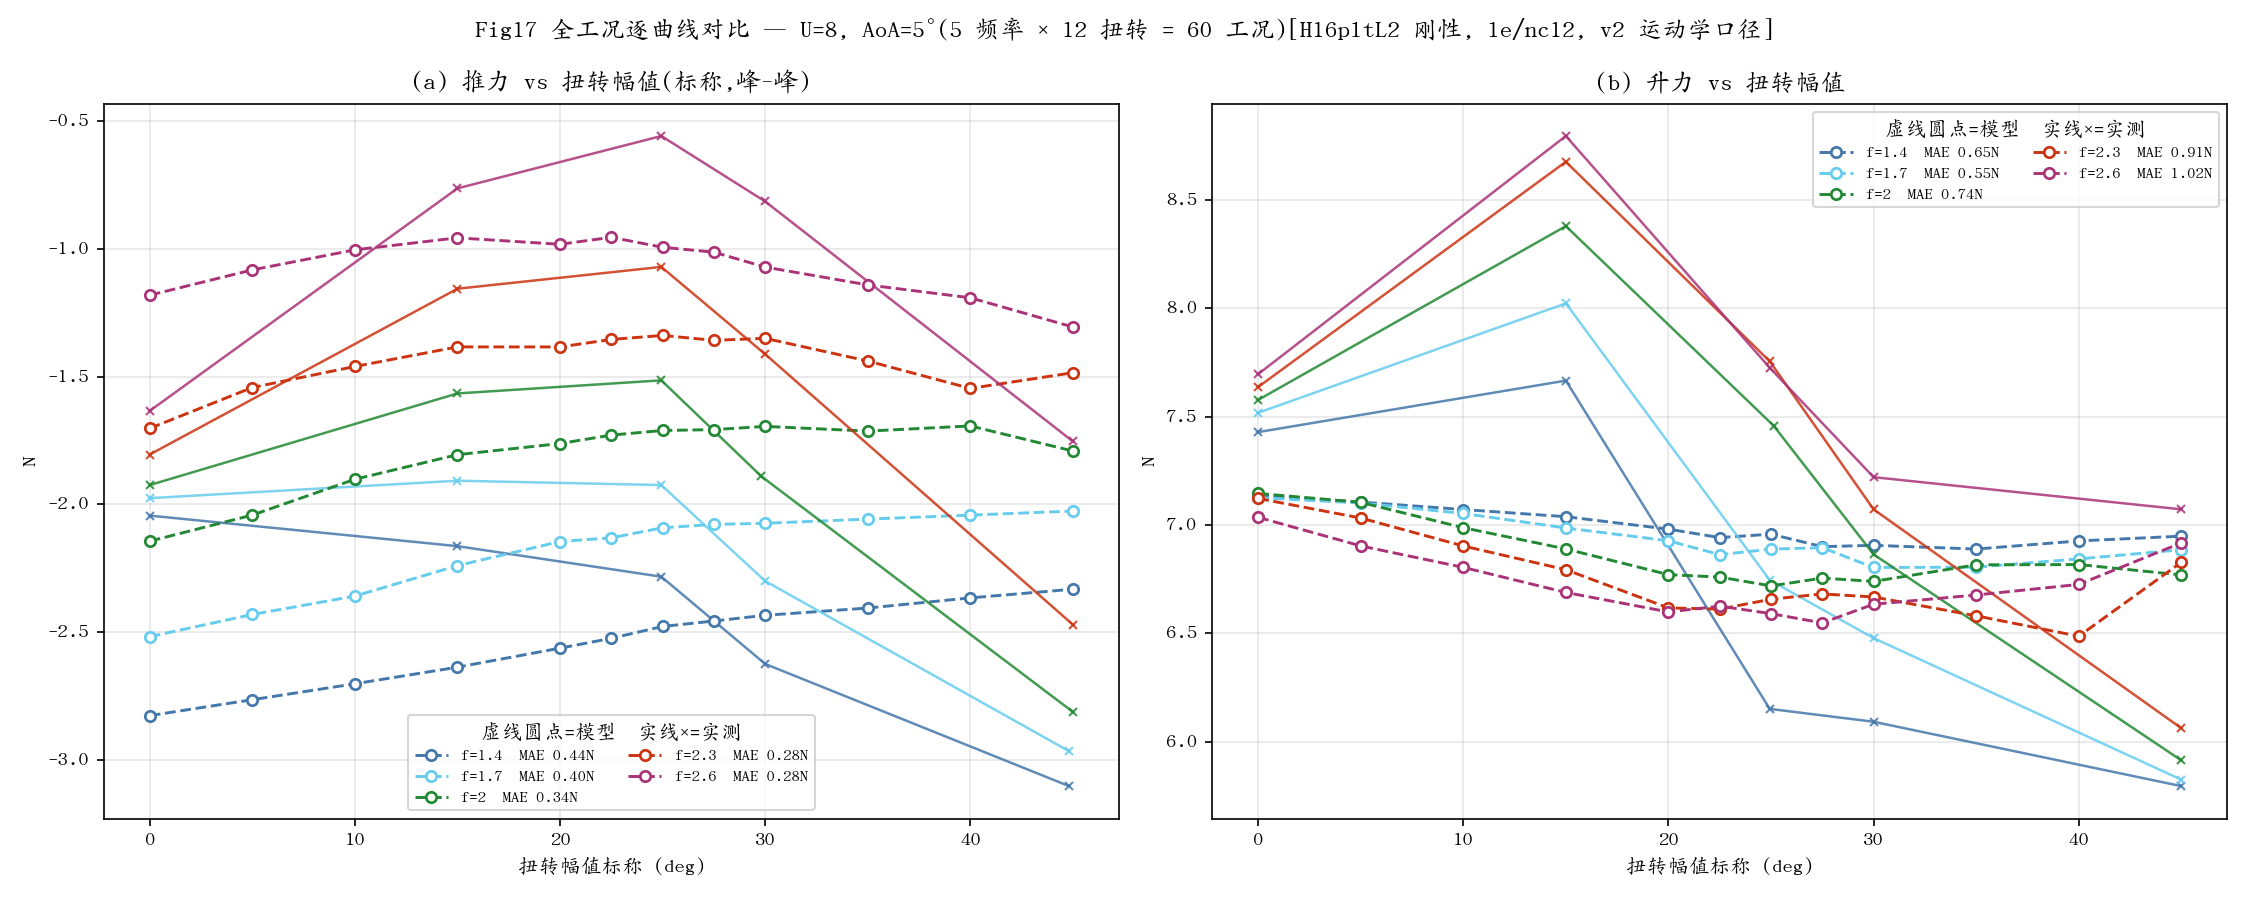
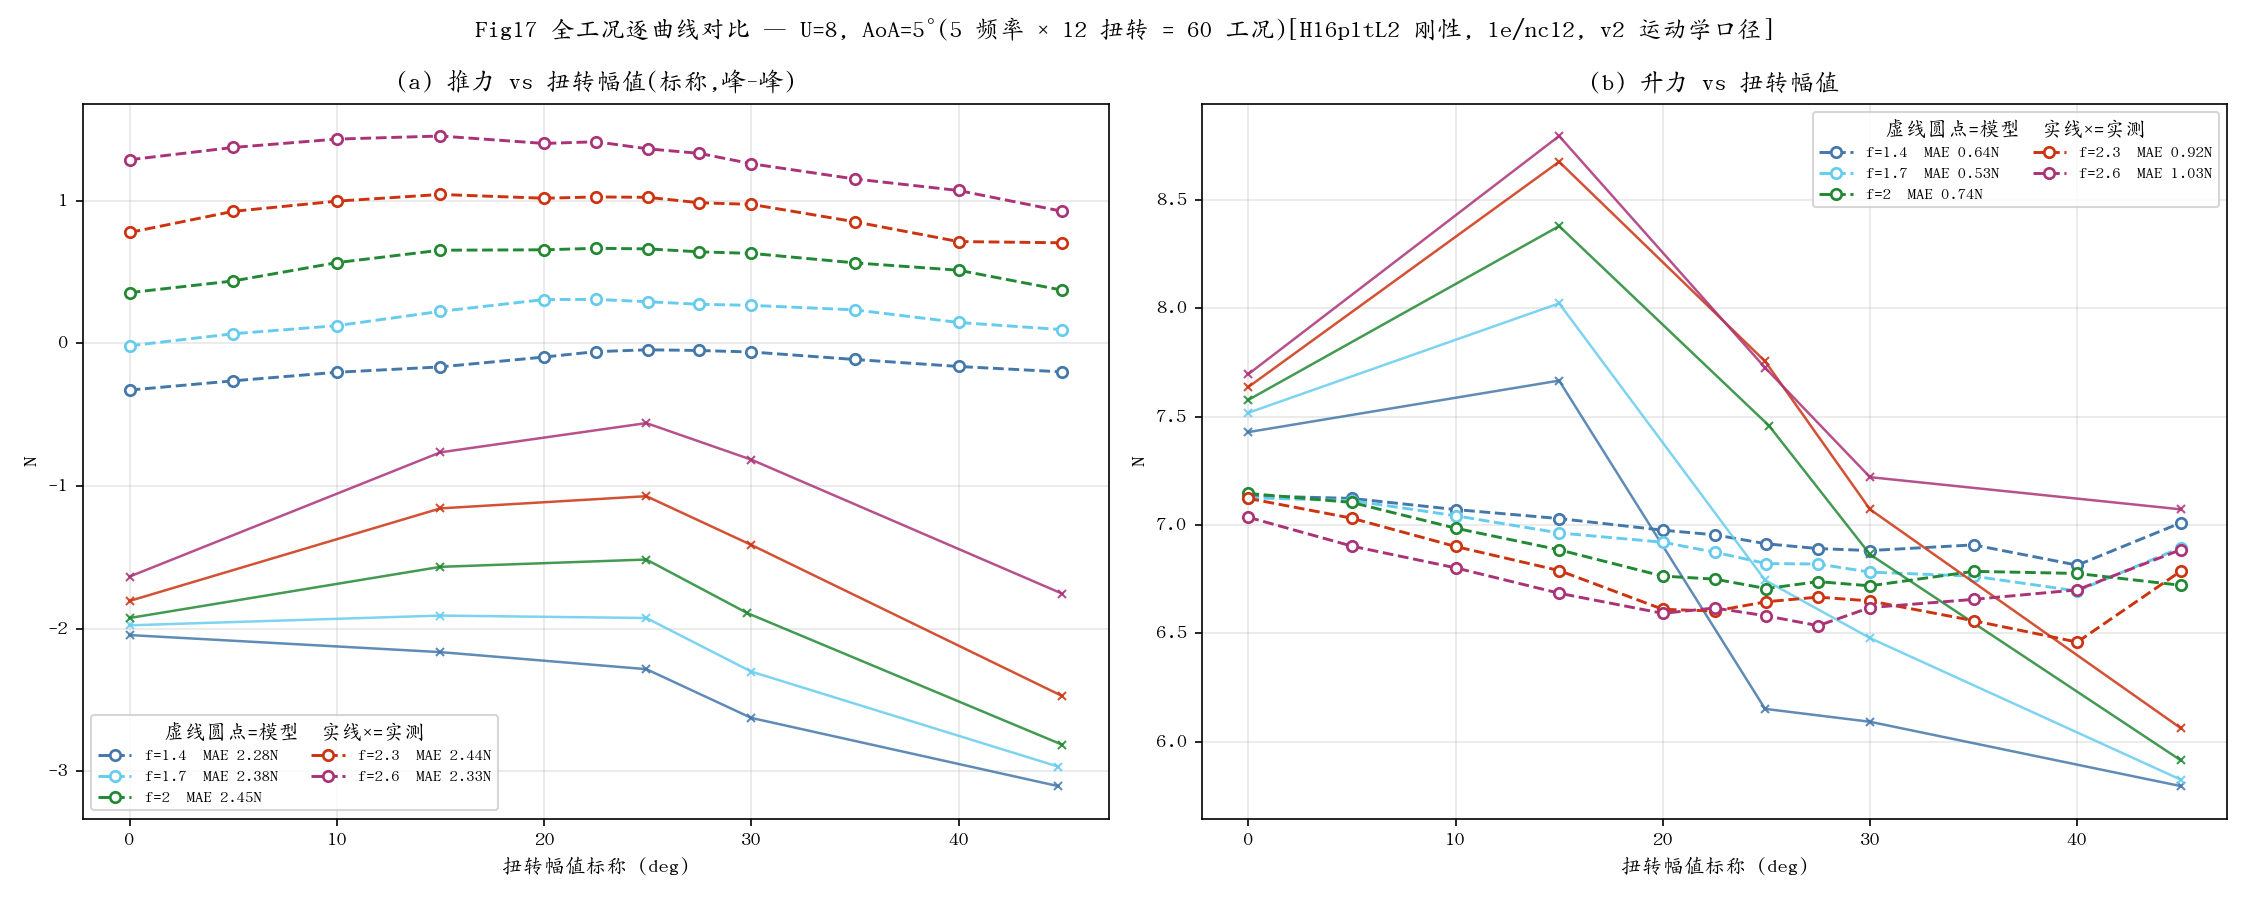
feat(v3): production closure full sweep — R2 net aero improvement isolated, T3b made visible
118/118 zero failures with plateau_fn + physical d_para. Diagnostic ledger:
R2's pure aero effect improves curve-mean thrust MAE 0.84->0.80N (aoa10/15
lines 0.22->0.09/0.57->0.26); the honest-ledger 2.18N figure is the T3b
open case made visible (U8 +2.1 real, U6 baseline-band, U10 now 0.52N vs
3.28 under the old U^2 compensator — the old law was over-subtracting 4.7N
at U10). Lift curve-mean 0.85N. Figures regenerated on v3.

diff --git a/platform/p2_s6_fig_sweep.py b/platform/p2_s6_fig_sweep.py
@@ -1,5 +1,5 @@
-"""全工况逐曲线对比图(用户指令 2026-07-15):118 工况刚性模型扫(s6_sweep_v2.json,
-H16pltL2/le/nc12/v2 运动学)vs 实测(repro_data.json),25+ 条曲线全画、逐曲线 MAE。
+"""全工况逐曲线对比图(用户指令 2026-07-15):118 工况刚性模型扫(s6_sweep_v3.json,
+H16pltL2fn+d_para物理(v3闭合)/le/nc12)vs 实测(repro_data.json),25+ 条曲线全画、逐曲线 MAE。
 输出 p2_s6_fig17_sweep.png / fig18_sweep / fig19_sweep + 控制台逐曲线 MAE 表。"""
 import json
 import os
@@ -21,7 +21,7 @@ rcParams["axes.unicode_minus"] = False
 
 DOCS = os.path.join(os.path.dirname(os.path.abspath(__file__)), "docs")
 MEAS = json.load(open(os.path.join(DOCS, "repro_data.json")))
-SW = json.load(open(os.path.join(DOCS, "s6_sweep_v2.json")))
+SW = json.load(open(os.path.join(DOCS, "s6_sweep_v3.json")))
 
 TWS = [0.0, 5.0, 10.0, 15.0, 20.0, 22.5, 25.0, 27.5, 30.0, 35.0, 40.0, 45.0]
 FS = [1.4, 1.7, 2.0, 2.3, 2.6]
